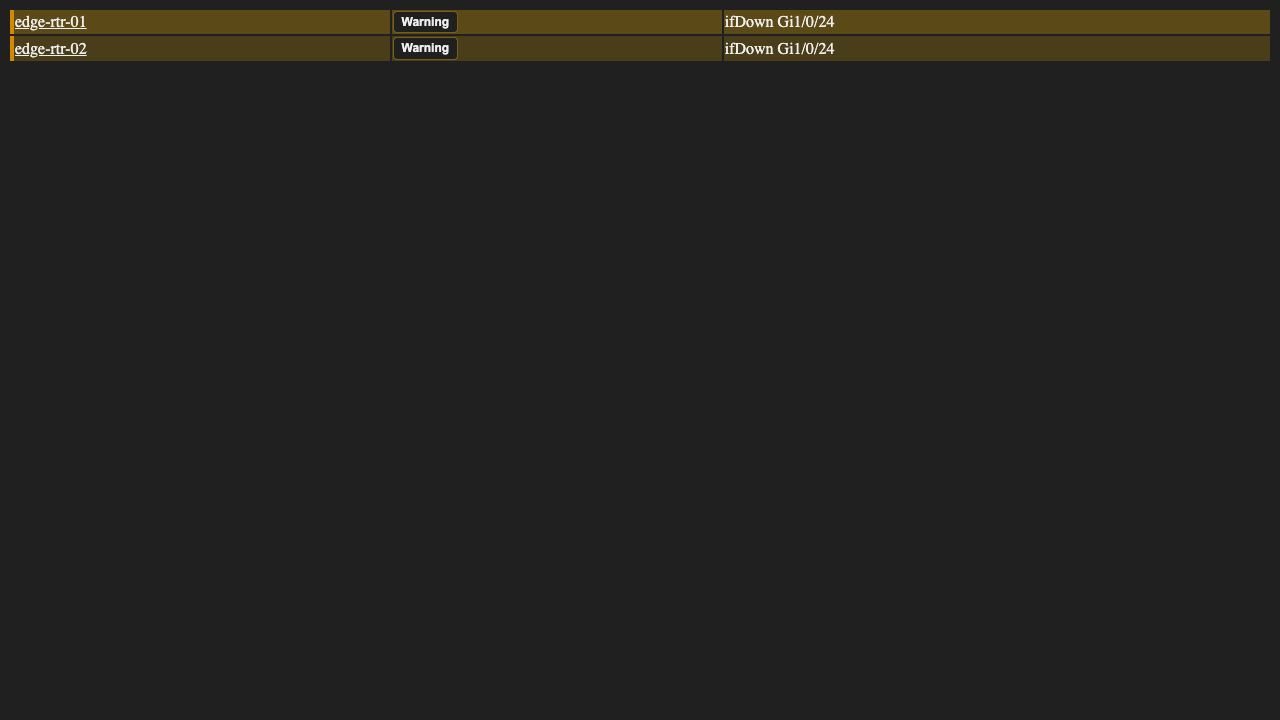
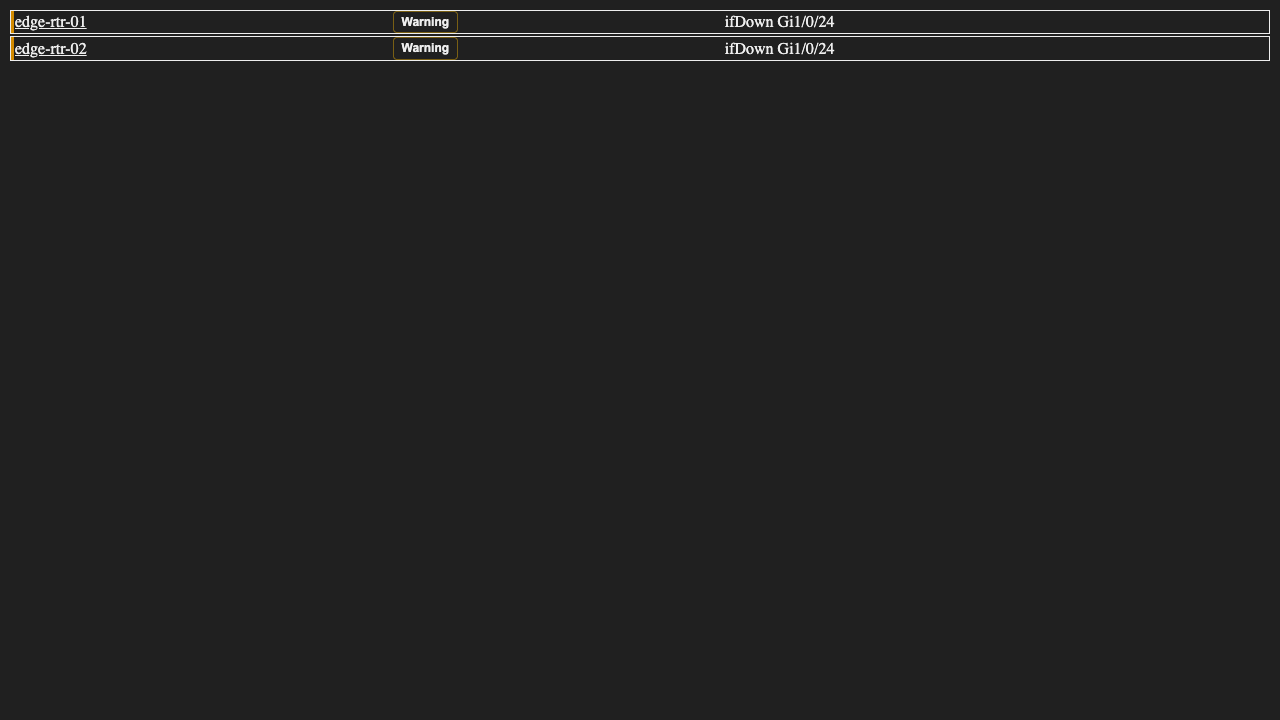
fix: isolate Syslog selection from forced host colors

Changed region(s): [[0.3438, 0.0, 1.0, 0.0917], [0.0, 0.0, 0.3125, 0.0917]]

diff --git a/css/search.css b/css/search.css
@@ -603,7 +603,7 @@
    surface, so the same rules read correctly on both light and dark themes. */
 #syslog_workspace tr.syslogRow { --syslog-sev: transparent; color: var(--search-text); background: color-mix(in srgb, var(--syslog-sev) 16%, var(--search-card)); }
 #syslog_workspace tr.syslogRow:nth-child(even) { background: color-mix(in srgb, var(--syslog-sev) 22%, var(--search-card)); }
-#syslog_workspace tr.syslogRow:hover { background: color-mix(in srgb, var(--syslog-sev) 32%, var(--search-card)); }
+#syslog_workspace tr.syslogRow:hover { background: color-mix(in srgb, var(--syslog-sev) 20%, var(--search-card)); }
 #syslog_workspace tr.syslogRow td:first-child { border-left: 4px solid transparent; }
 #syslog_workspace tr.syslogRow.logEmergency { --syslog-sev: #e5484d; }
 #syslog_workspace tr.syslogRow.logAlert { --syslog-sev: #e5533b; }
@@ -1128,10 +1128,18 @@
 
 #syslog_workspace tr.syslogRow a,
 #syslog_workspace tr.syslogRow a:hover {
-	color: var(--search-text);
+	color: var(--search-text) !important;
 }
 #syslog_workspace tr.syslogRow .syslogSeverity,
 #syslog_workspace tr.syslogRow .syslogSeverity:hover {
 	color: var(--search-text);
 	background: var(--search-card);
+}
+
+/* Some host themes force their selected foreground and background. */
+#syslog_workspace tr.syslogRow.selected {
+	color: var(--search-text) !important;
+	background: var(--search-card) !important;
+	outline: 1px solid var(--search-text);
+	outline-offset: -1px;
 }
